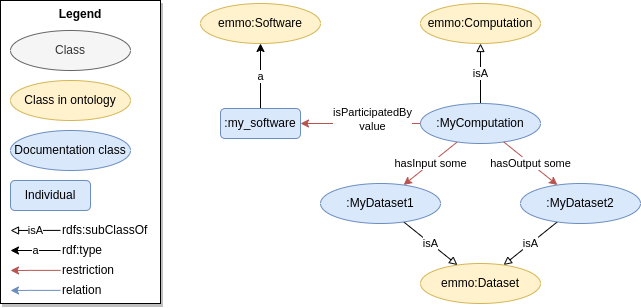
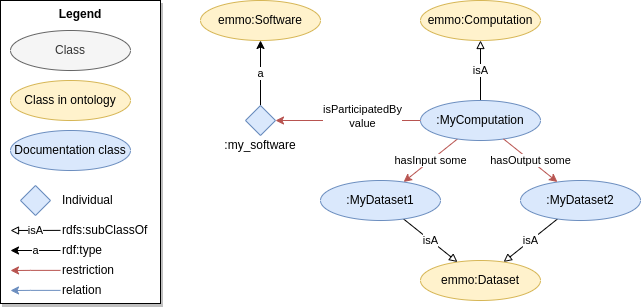
Updated figure symbols and described colour coding

diff --git a/examples/tools/README.md b/examples/tools/README.md
@@ -11,6 +11,7 @@ This example is intended to be a simple guide for how to do a step-by-step docum
 6. [content of datasets](#6-documentation-of-content-of-datasets) (in terms of data models)
 
 The figure below illustrates the documentation of step 1 to 3, where a class of computations is related to a software and the types of datasets it takes as input and output.
+The colour coding shows existing resources (classes/individuals) in yellow and resources documented here in blue.
 
 ![Documentation of step 1 to 3.](https://raw.githubusercontent.com/HEU-MatCHMaker/DataDocumentation/refs/heads/datadoc-example/examples/tools/figs/computation.svg)
 
